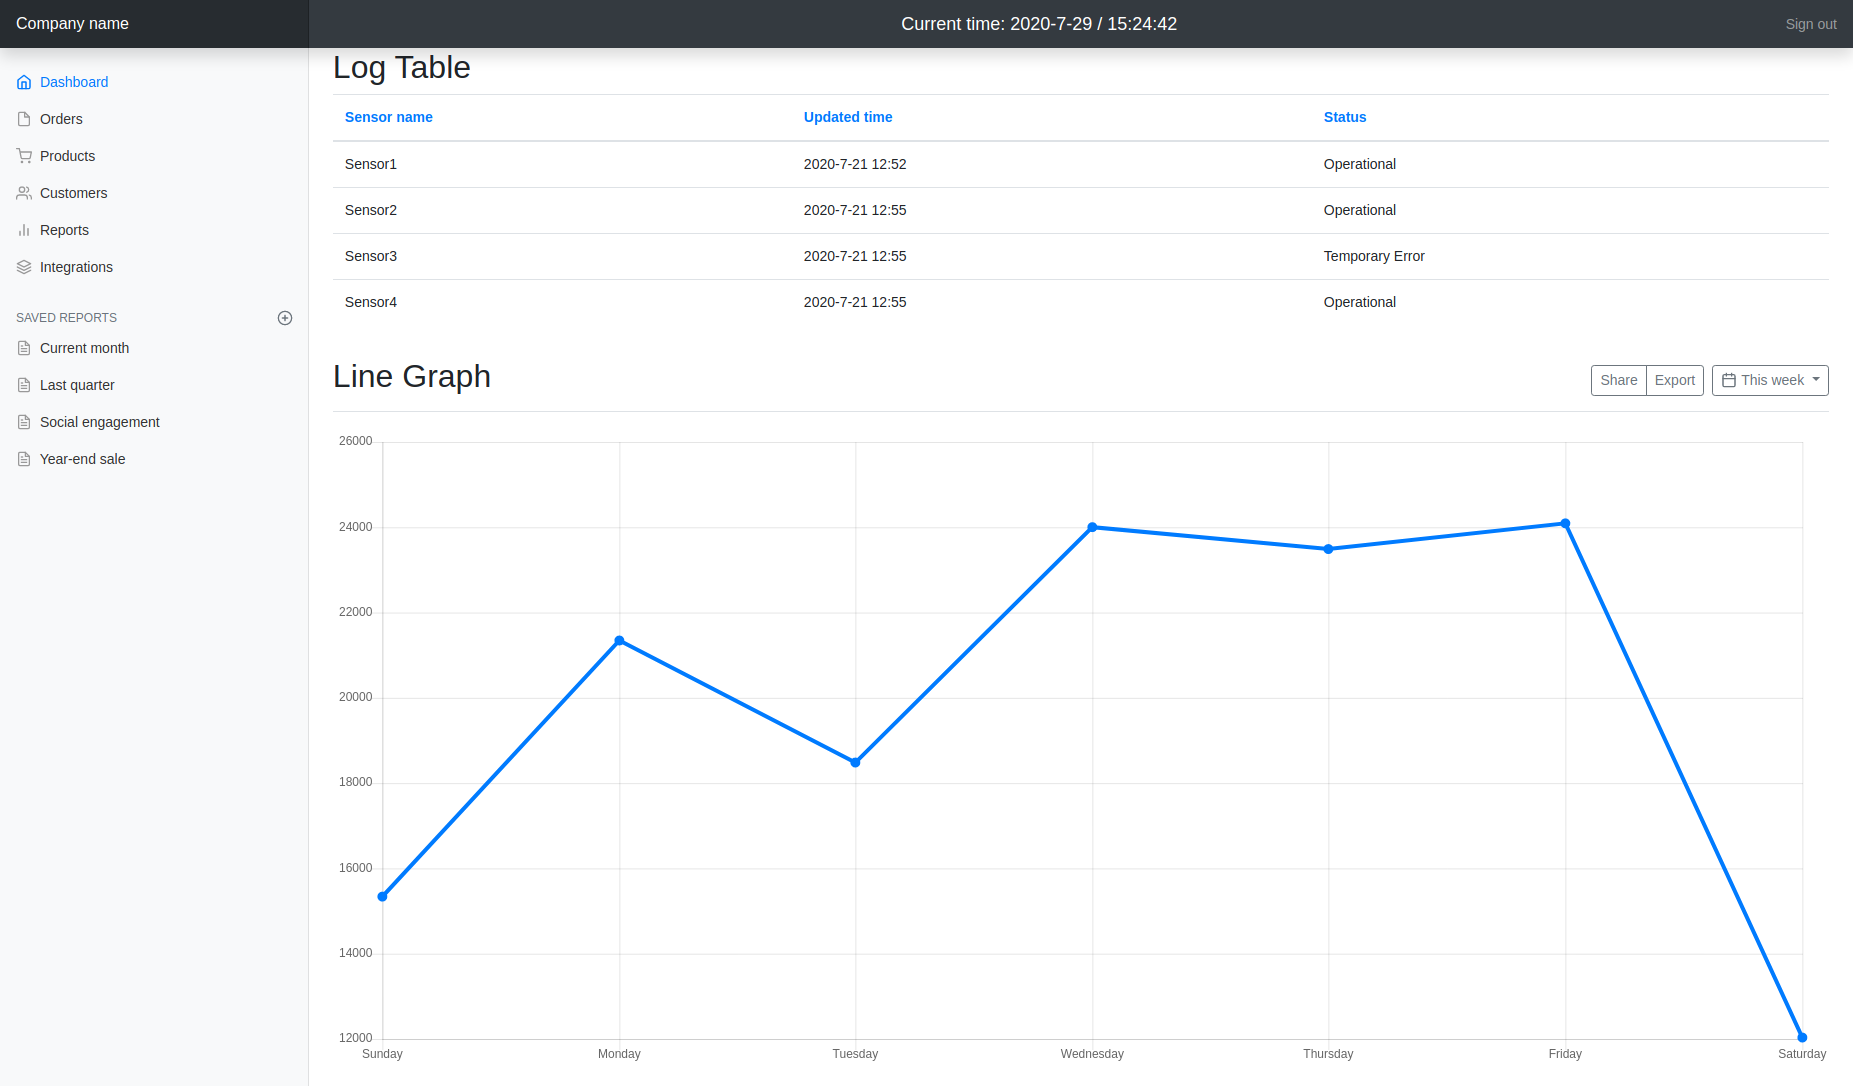
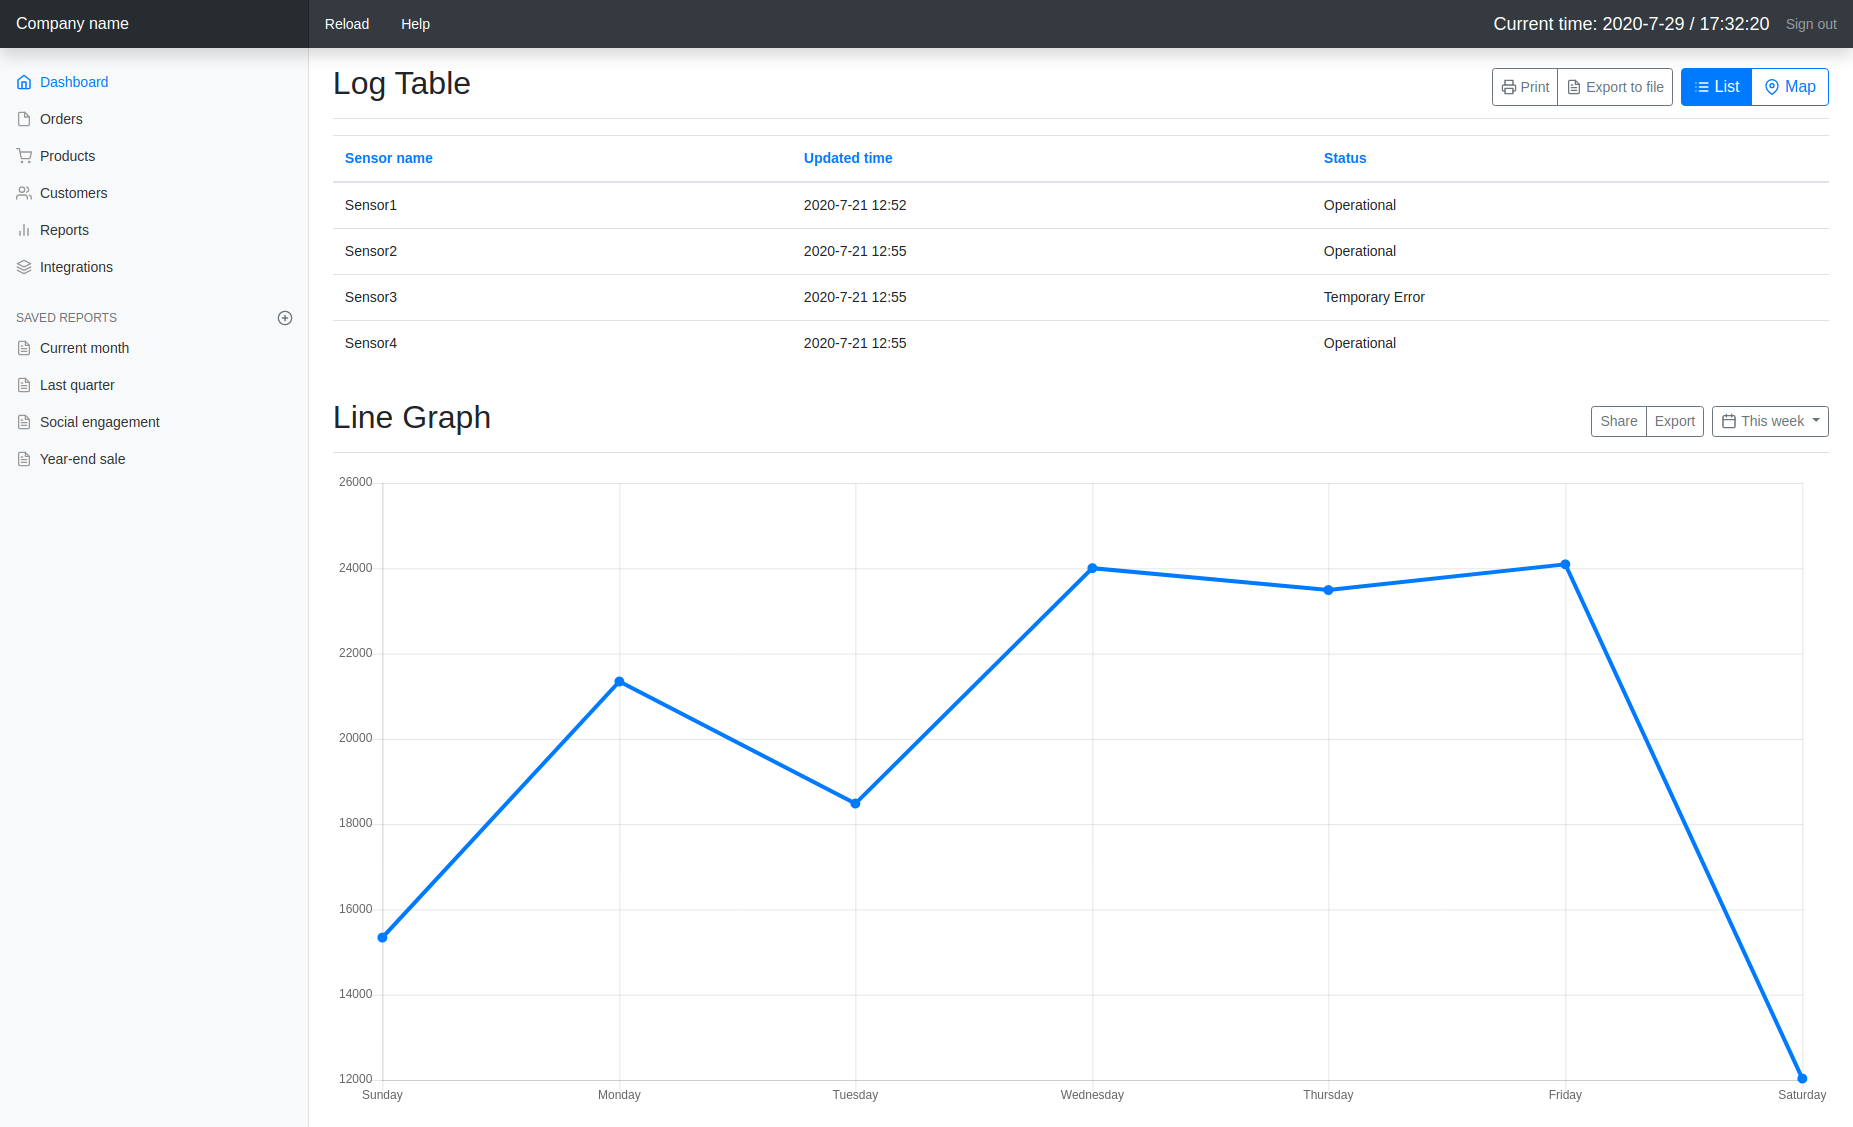
Add UI buttons (Reload, Help, Print, Export, List/Map change)

diff --git a/django_iot/logtable/templates/logtable/dashboard.html b/django_iot/logtable/templates/logtable/dashboard.html
@@ -45,10 +45,27 @@
     <!--
       <input class="form-control form-control-dark w-100" type="text" placeholder="Search" aria-label="Search">
     -->
-    <div id="timer">
-      Current time: 
-      <span id="currenttime"></span>
+    <div class="navbar-nav">
+      <ul class="navbar-nav mx-auto flex-row">
+        <li class="nav-item px-3">
+          <a class="nav-link active" href="#">Reload</a>
+        </li>
+        <li class="nav-item px-3">
+          <a class="nav-link active" href="#">Help</a>
+        </li>
+      </ul>
     </div>
+
+    <ul class="navbar-nav flex-row ml-md-auto d-none d-md-flex">
+      <li>
+        <span class="navbar-text" id="timer">
+          Current time: 
+          <span id="currenttime"></span>
+        </span>
+      </li>
+    </ul>
+    
+    
     <ul class="navbar-nav px-3">
       <li class="nav-item text-nowrap">
         <a class="nav-link" href="#">Sign out</a>
@@ -136,7 +153,32 @@
 
       <main role="main" class="col-md-9 ml-sm-auto col-lg-10 px-md-4">
         
+        <div
+        class="d-flex justify-content-between flex-wrap flex-md-nowrap align-items-center pt-3 pb-2 mb-3 border-bottom">
         <h2>Log Table</h2>
+        <div class="btn-toolbar mb-2 mb-md-0">
+          <div class="btn-group mr-2">
+            <button type="button" class="btn btn-sm btn-outline-secondary">
+              <span data-feather="printer"></span>
+              Print
+            </button>
+            <button type="button" class="btn btn-sm btn-outline-secondary">
+              <span data-feather="file-text"></span>
+              Export to file
+            </button>
+          </div>
+          <div class="btn-group btn-group-toggle" data-toggle="buttons">
+            <label class="btn btn-outline-primary active">
+              <span data-feather="list"></span>
+              <input type="radio" name="options" id="show_table_option" autocomplete="off" checked> List 
+            </label>
+            <label class="btn btn-outline-primary">
+              <span data-feather="map-pin"></span>
+              <input type="radio" name="options" id="show_table_option" autocomplete="off"> Map
+            </label>
+          </div>
+        </div>
+      </div>
         <div class="table-responsive">
           {% load django_tables2 %}
           {% render_table table %}
